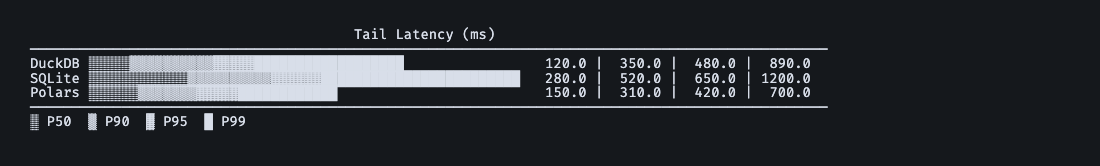
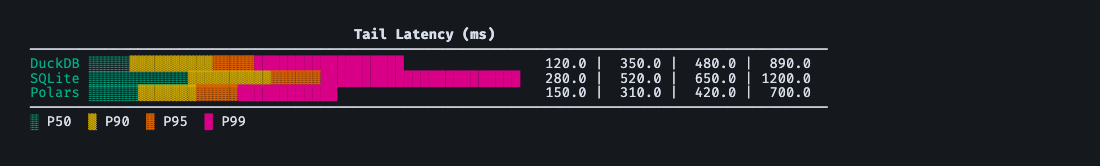
docs: fix screenshot color rendering

diff --git a/scripts/generate_doc_screenshots.py b/scripts/generate_doc_screenshots.py
@@ -81,6 +81,21 @@ HTML_TEMPLATE = """\
     white-space: pre;
   }}
   .ansi1 {{ font-weight: bold; }}
+  .ansi32 {{ color: #4ec9b0; }}
+  .ansi33 {{ color: #e6ab02; }}
+  .ansi34 {{ color: #569cd6; }}
+  .ansi35 {{ color: #c586c0; }}
+  .ansi36 {{ color: #4ec9b0; }}
+  .ansi37 {{ color: #d8dee9; }}
+  .ansi38-5-36 {{ color: #4ec9b0; }}
+  .ansi38-5-60 {{ color: #5a6478; }}
+  .ansi38-5-70 {{ color: #6aaf6a; }}
+  .ansi38-5-97 {{ color: #8b7fd6; }}
+  .ansi38-5-130 {{ color: #b88746; }}
+  .ansi38-5-162 {{ color: #d16ba5; }}
+  .ansi38-5-166 {{ color: #d7875f; }}
+  .ansi38-5-178 {{ color: #d6b34e; }}
+  .ansi38-5-242 {{ color: #6b7075; }}
 </style>
 </head>
 <body>
@@ -119,13 +134,25 @@ def _options(mode: str) -> ASCIIChartOptions:
     raise ValueError(f"unsupported mode: {mode}")
 
 
+def _render_chart(chart, mode: str) -> str:
+    """Force deterministic terminal capabilities for screenshot generation."""
+    chart._capabilities = _caps(
+        ColorMode.EXTENDED if mode == "color" else ColorMode.NONE,
+        unicode_support=(mode == "color"),
+        interactive=(mode == "color"),
+    )
+    chart.options._capabilities = chart._capabilities
+    return chart.render()
+
+
 def _bar_chart(mode: str) -> str:
     data = [
         BarData(label="DuckDB", value=1234.5, is_best=True),
         BarData(label="SQLite", value=3456.7, is_worst=True),
         BarData(label="Polars", value=2100.0),
     ]
-    return ASCIIBarChart(data=data, title="Total Runtime", metric_label="ms", options=_options(mode)).render()
+    chart = ASCIIBarChart(data=data, title="Total Runtime", metric_label="ms", options=_options(mode))
+    return _render_chart(chart, mode)
 
 
 def _histogram(mode: str) -> str:
@@ -137,7 +164,8 @@ def _histogram(mode: str) -> str:
         HistogramBar(query_id="Q5", latency_ms=210.0),
         HistogramBar(query_id="Q6", latency_ms=150.3),
     ]
-    return ASCIIHistogram(data=bars, title="Query Latency", options=_options(mode)).render()
+    chart = ASCIIHistogram(data=bars, title="Query Latency", options=_options(mode))
+    return _render_chart(chart, mode)
 
 
 def _heatmap(mode: str) -> str:
@@ -154,7 +182,7 @@ def _heatmap(mode: str) -> str:
         title="Query Heatmap",
         options=_options(mode),
     )
-    return chart.render()
+    return _render_chart(chart, mode)
 
 
 def _box_plot(mode: str) -> str:
@@ -163,7 +191,8 @@ def _box_plot(mode: str) -> str:
         BoxPlotSeries(name="SQLite", values=[200, 250, 300, 350, 400, 450, 500, 600, 800]),
         BoxPlotSeries(name="Polars", values=[100, 120, 140, 160, 180, 200, 220, 280, 350]),
     ]
-    return ASCIIBoxPlot(series=series, title="Query Time Distribution", options=_options(mode)).render()
+    chart = ASCIIBoxPlot(series=series, title="Query Time Distribution", options=_options(mode))
+    return _render_chart(chart, mode)
 
 
 def _line_chart(mode: str) -> str:
@@ -175,7 +204,8 @@ def _line_chart(mode: str) -> str:
         LinePoint(series="SQLite", x=2, y=320.0, label="Run 2"),
         LinePoint(series="SQLite", x=3, y=310.0, label="Run 3"),
     ]
-    return ASCIILineChart(points=points, title="Performance Trend", options=_options(mode)).render()
+    chart = ASCIILineChart(points=points, title="Performance Trend", options=_options(mode))
+    return _render_chart(chart, mode)
 
 
 def _scatter_plot(mode: str) -> str:
@@ -185,7 +215,8 @@ def _scatter_plot(mode: str) -> str:
         ScatterPoint(name="Snowflake", x=2.5, y=890.0),
         ScatterPoint(name="Databricks", x=5.0, y=650.0),
     ]
-    return ASCIIScatterPlot(points=points, title="Cost vs Performance", options=_options(mode)).render()
+    chart = ASCIIScatterPlot(points=points, title="Cost vs Performance", options=_options(mode))
+    return _render_chart(chart, mode)
 
 
 def _comparison_bar(mode: str) -> str:
@@ -203,7 +234,8 @@ def _comparison_bar(mode: str) -> str:
             label="Q4", baseline_value=560.0, comparison_value=540.0, baseline_name="v1.0", comparison_name="v1.1"
         ),
     ]
-    return ASCIIComparisonBar(data=data, title="Version Comparison", options=_options(mode)).render()
+    chart = ASCIIComparisonBar(data=data, title="Version Comparison", options=_options(mode))
+    return _render_chart(chart, mode)
 
 
 def _diverging_bar(mode: str) -> str:
@@ -214,7 +246,8 @@ def _diverging_bar(mode: str) -> str:
         DivergingBarData(label="Q4", pct_change=-3.6),
         DivergingBarData(label="Q5", pct_change=45.2),
     ]
-    return ASCIIDivergingBar(data=data, title="Regression Analysis", options=_options(mode)).render()
+    chart = ASCIIDivergingBar(data=data, title="Regression Analysis", options=_options(mode))
+    return _render_chart(chart, mode)
 
 
 def _summary_box(mode: str) -> str:
@@ -229,7 +262,8 @@ def _summary_box(mode: str) -> str:
         environment={"OS": "macOS 15.3", "CPUs": "12 (arm64)", "Memory": "36 GB"},
         platform_config={"Driver": "DuckDB 1.2.0", "Tuning": "Tuned"},
     )
-    return ASCIISummaryBox(stats=stats, options=_options(mode)).render()
+    chart = ASCIISummaryBox(stats=stats, options=_options(mode))
+    return _render_chart(chart, mode)
 
 
 def _percentile_ladder(mode: str) -> str:
@@ -238,7 +272,8 @@ def _percentile_ladder(mode: str) -> str:
         PercentileData(name="SQLite", p50=280.0, p90=520.0, p95=650.0, p99=1200.0),
         PercentileData(name="Polars", p50=150.0, p90=310.0, p95=420.0, p99=700.0),
     ]
-    return ASCIIPercentileLadder(data=data, title="Tail Latency", options=_options(mode)).render()
+    chart = ASCIIPercentileLadder(data=data, title="Tail Latency", options=_options(mode))
+    return _render_chart(chart, mode)
 
 
 def _normalized_speedup(mode: str) -> str:
@@ -248,7 +283,8 @@ def _normalized_speedup(mode: str) -> str:
         SpeedupData(name="Polars", ratio=0.85),
         SpeedupData(name="Snowflake", ratio=1.42),
     ]
-    return ASCIINormalizedSpeedup(data=data, title="Relative Speedup", options=_options(mode)).render()
+    chart = ASCIINormalizedSpeedup(data=data, title="Relative Speedup", options=_options(mode))
+    return _render_chart(chart, mode)
 
 
 def _stacked_bar(mode: str) -> str:
@@ -270,7 +306,8 @@ def _stacked_bar(mode: str) -> str:
             ],
         ),
     ]
-    return ASCIIStackedBar(data=data, title="Phase Breakdown", options=_options(mode)).render()
+    chart = ASCIIStackedBar(data=data, title="Phase Breakdown", options=_options(mode))
+    return _render_chart(chart, mode)
 
 
 def _sparkline_table(mode: str) -> str:
@@ -282,7 +319,8 @@ def _sparkline_table(mode: str) -> str:
             SparklineColumn(name="P99 (ms)", values={"DuckDB": 890.0, "SQLite": 1200.0, "Polars": 700.0}),
         ],
     )
-    return ASCIISparklineTable(data=data, title="Platform Overview", options=_options(mode)).render()
+    chart = ASCIISparklineTable(data=data, title="Platform Overview", options=_options(mode))
+    return _render_chart(chart, mode)
 
 
 def _cdf_chart(mode: str) -> str:
@@ -290,7 +328,8 @@ def _cdf_chart(mode: str) -> str:
         CDFSeriesData(name="DuckDB", values=[80, 95, 110, 130, 150, 200, 250, 300, 500]),
         CDFSeriesData(name="SQLite", values=[200, 250, 300, 350, 400, 450, 500, 600, 800]),
     ]
-    return ASCIICDFChart(data=data, title="Cumulative Distribution", options=_options(mode)).render()
+    chart = ASCIICDFChart(data=data, title="Cumulative Distribution", options=_options(mode))
+    return _render_chart(chart, mode)
 
 
 def _rank_table(mode: str) -> str:
@@ -312,7 +351,8 @@ def _rank_table(mode: str) -> str:
             ("Polars", "Q4"): 520.0,
         },
     )
-    return ASCIIRankTable(data=data, title="Platform Rankings", options=_options(mode)).render()
+    chart = ASCIIRankTable(data=data, title="Platform Rankings", options=_options(mode))
+    return _render_chart(chart, mode)
 
 
 CHARTS = {
